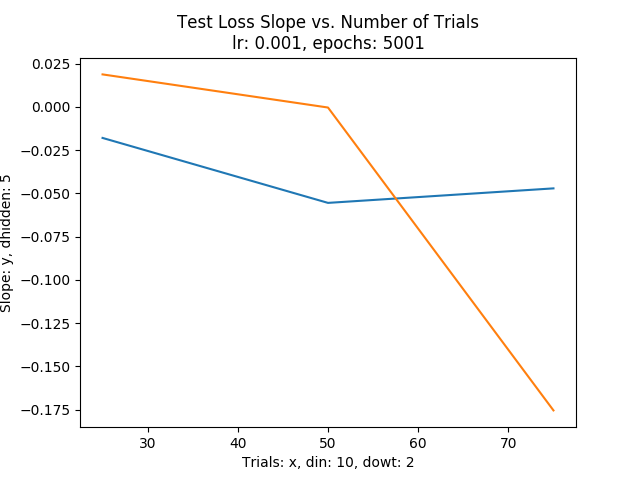
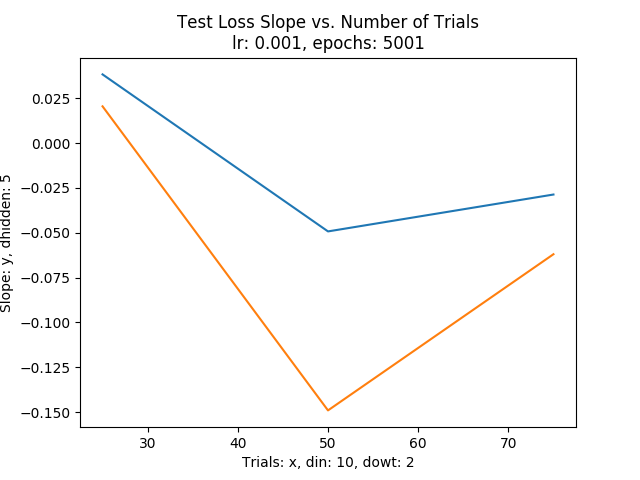
another trial

diff --git a/profile.py b/profile.py
@@ -2,9 +2,10 @@ from fit import handle_all_trials
 from fit import train
 from fit import twoTransformations
 from scipy.stats import linregress
-import time
 
+import time
 import matplotlib.pyplot as plt
+import numpy as np
 import torch
 
 def fit_data(N, din, dowt, dhidden, lr, epochs, device):
@@ -49,16 +50,43 @@ if __name__ == '__main__':
     sizes = [25*i+25 for i in range(3)]
     t0 = time.time()
 
-    for expe in range(10):
+    dataset = []
+    experiments = 3
+    for expe in range(experiments):
         slopes = run_all(sizes, din, dowt, dhidden, lr, epochs, device)
         print("total elapsed time: ")
         print(time.time()-t0)
-        print("Profile prog" + str(expe/10))
-    
+        print("Profile prog" + str(expe/experiments))
+        dataset.append(np.array(slopes))
+        
+    cumsum = np.zeros(dataset[0].size)
+    for it in dataset:
+        cumsum = cumsum + it
+    cumsum = cumsum/experiments
+        
+        
+    for inx, slopes in enumerate(dataset):
         plt.plot(sizes, slopes)
         plt.title("Test Loss Slope vs. Number of Trials\nlr: {}, epochs: {}"
                   .format(lr, epochs))
         plt.xlabel("Trials: x, din: {}, dowt: {}".format(din, dowt))
         plt.ylabel("Slope: y, dhidden: {}".format(dhidden))
-        plt.savefig("prof"+str(expe))
+        plt.savefig("prof"+str(inx))
+
+    plt.figure(1)
+    plt.plot(sizes, cumsum)
+    plt.title("Avg Test Slope vs. Number of Trials\nlr: {}, epochs: {}"
+              .format(lr, epochs))
+    plt.xlabel("Trials: x, din: {}, dowt: {}".format(din, dowt))
+    plt.ylabel("Slope: y, dhidden: {}".format(dhidden))
+    plt.savefig("average")
+        
+
+
+    
+    print(dataset[0])
+    print(dataset[1])
+    print(dataset[2])
+    print(cumsum)
+        
     
